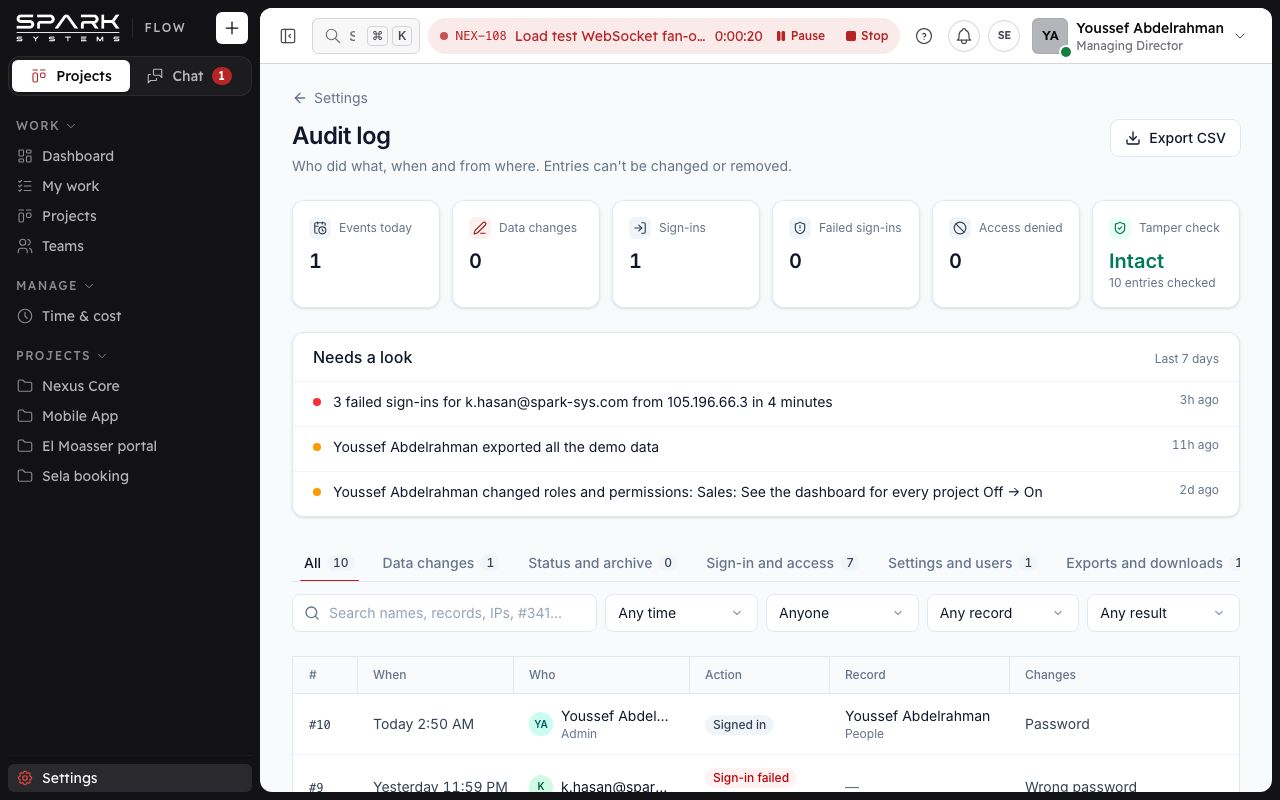
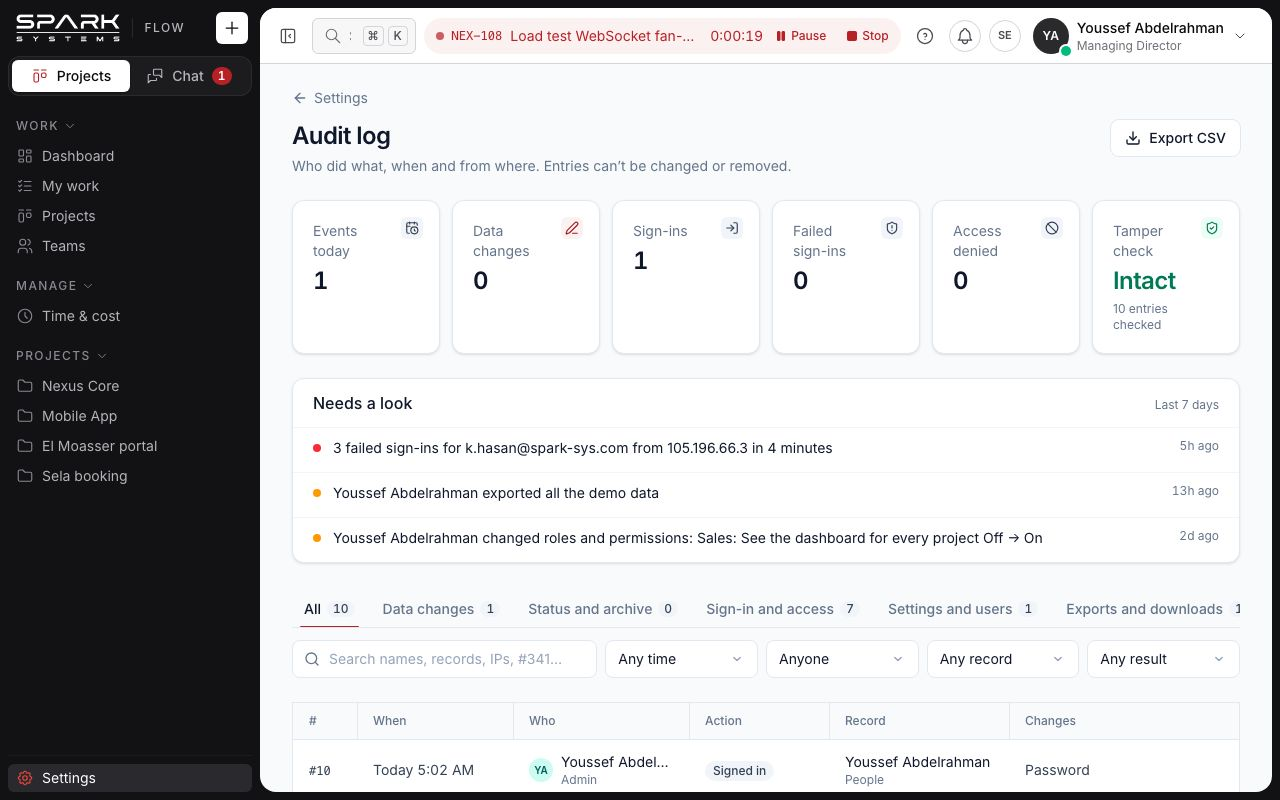
docs(ux): Phase 3 review and help pictures

diff --git a/tasks/todo.md b/tasks/todo.md
@@ -2797,16 +2797,26 @@ the shell's font follows the screen; chat's New channel / New message on the cha
 one red (brand-500) and one danger style, danger on every delete confirm. Plan with decisions, diagrams and questions:
 `docs/superpowers/plans/2026-11-09-ux-phase-3-visual-consistency.md`. Branch `feat/ux-phase-3` from `origin/dev` (5210cc3).
 
-- [ ] One red, one danger (3.2)
-- [ ] One avatar (3.1)
-- [ ] The font follows the screen (3.1)
-- [ ] New channel and New message on the chat Modal, with the discard guard (3.1)
-- [ ] Preferences in the kit look (3.1)
-- [ ] Red means act or late (3.3)
-- [ ] Dates through lib/format.ts (3.4)
-- [ ] IconButton, and titles on icon buttons (3.5, 3.7)
-- [ ] SegmentedControl (3.5)
-- [ ] StatTile and the main card's corner (3.5)
-- [ ] Dark mode details (3.6)
-- [ ] Copy details: curly apostrophes, one file-size helper (3.7)
-- [ ] Phase check, help pictures, review here
+- [x] One red, one danger (3.2)
+- [x] One avatar (3.1)
+- [x] The font follows the screen (3.1)
+- [x] New channel and New message on the chat Modal, with the discard guard (3.1)
+- [x] Preferences in the kit look (3.1)
+- [x] Red means act or late (3.3)
+- [x] Dates through lib/format.ts (3.4)
+- [x] IconButton, and titles on icon buttons (3.5, 3.7)
+- [x] SegmentedControl (3.5)
+- [x] StatTile and the main card's corner (3.5)
+- [x] Dark mode details (3.6)
+- [x] Copy details: curly apostrophes, one file-size helper (3.7)
+- [x] Phase check, help pictures, review here
+
+## Review — UX Phase 3
+- Gates: `tsc -b` and lint clean; unit 2,244/2,244; browser 293/296 (the known `RichComposer` "unknown /word" and the
+  worktree-only `MessageList` "Jump to latest" ×2); `build:prototype` passes; help pictures retaken.
+- App check on this branch's dev server (port 5177), Admin, light and dark at 1440, phone 375: a channel and Activity
+  are Readex Pro throughout, the Dashboard, a project and Preferences are Inter throughout (shell included); people
+  have one round, coloured avatar everywhere, me dark in the top bar; New channel asks "Discard this new channel?" on
+  Esc with a danger Discard; Preferences matches Settings; progress bars grey on time; chat dividers read "Thursday
+  5 November"; the mode switch and "+" are ink in dark. No sideways scroll; console shows only the worktree's font 403s.
+- Order changed once (ledger): IconButton (Task 8) ran before Preferences (Task 5), which uses it.
